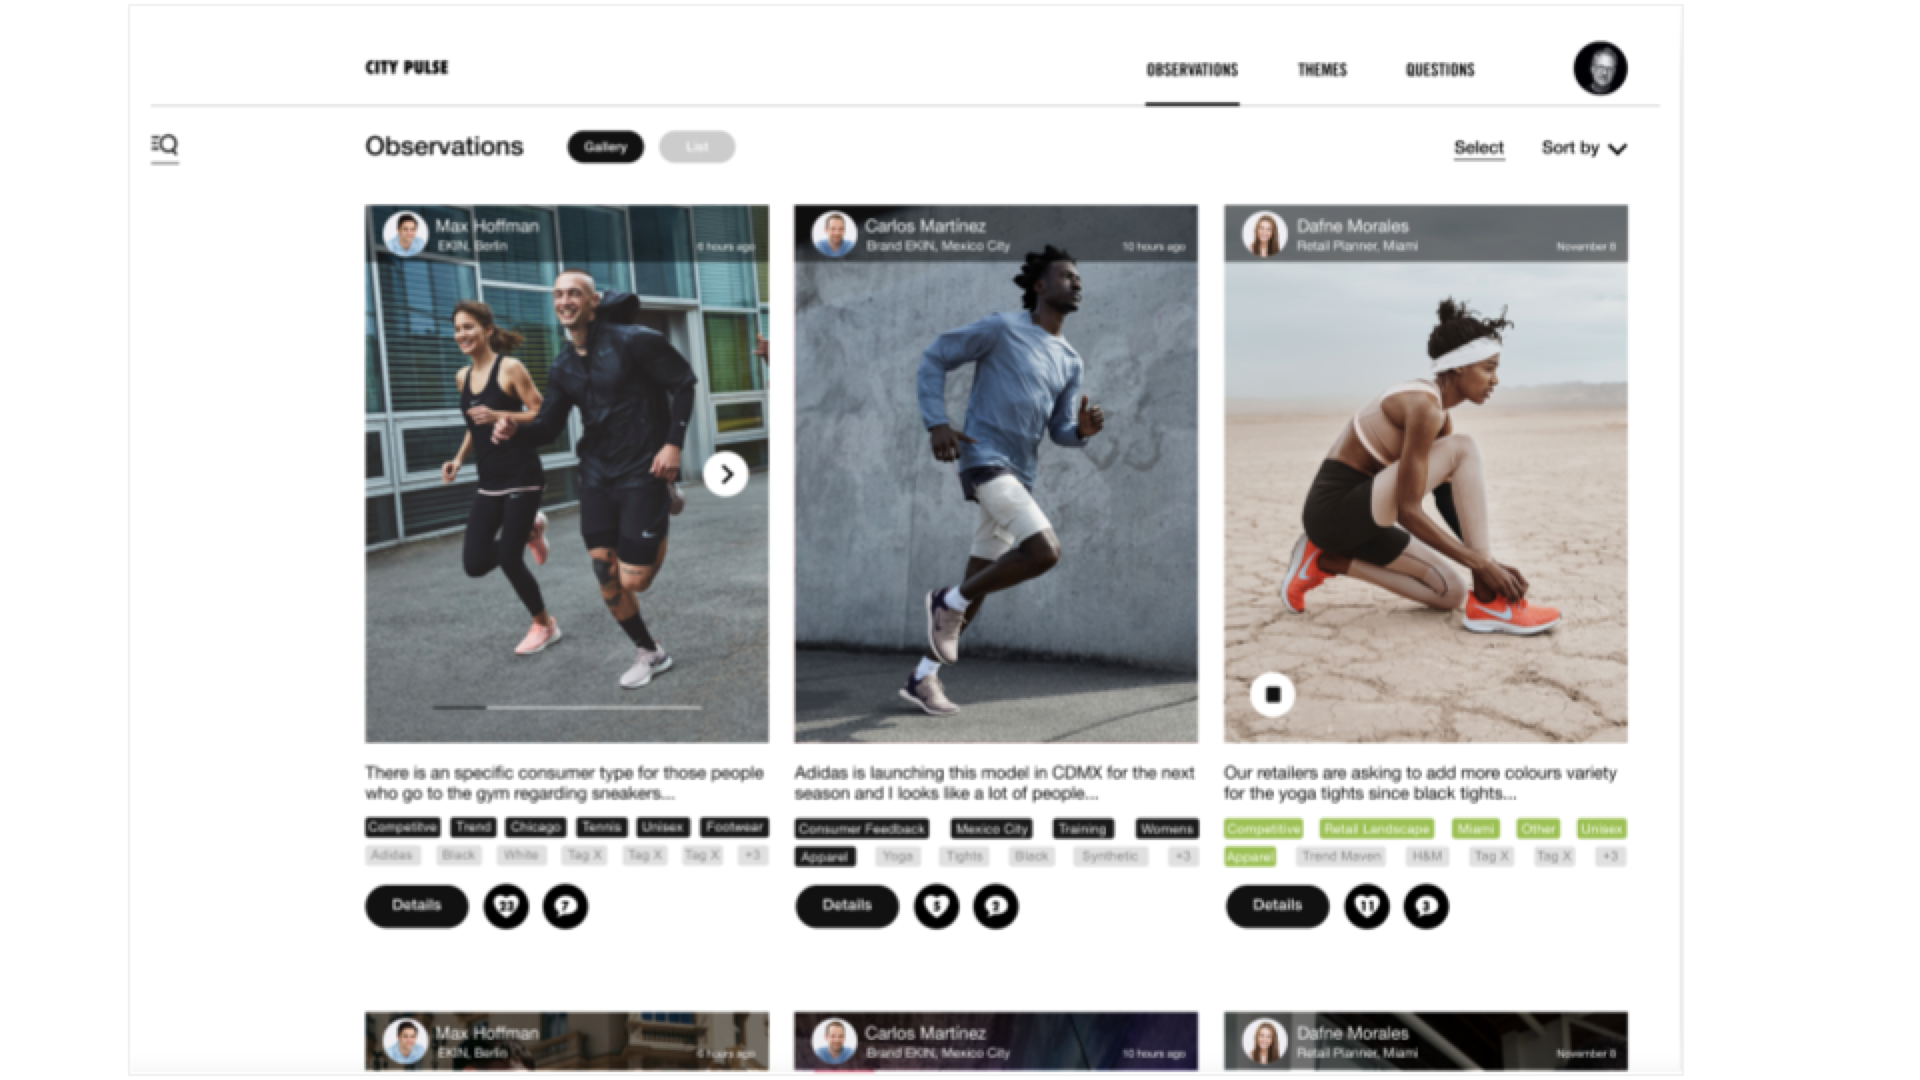
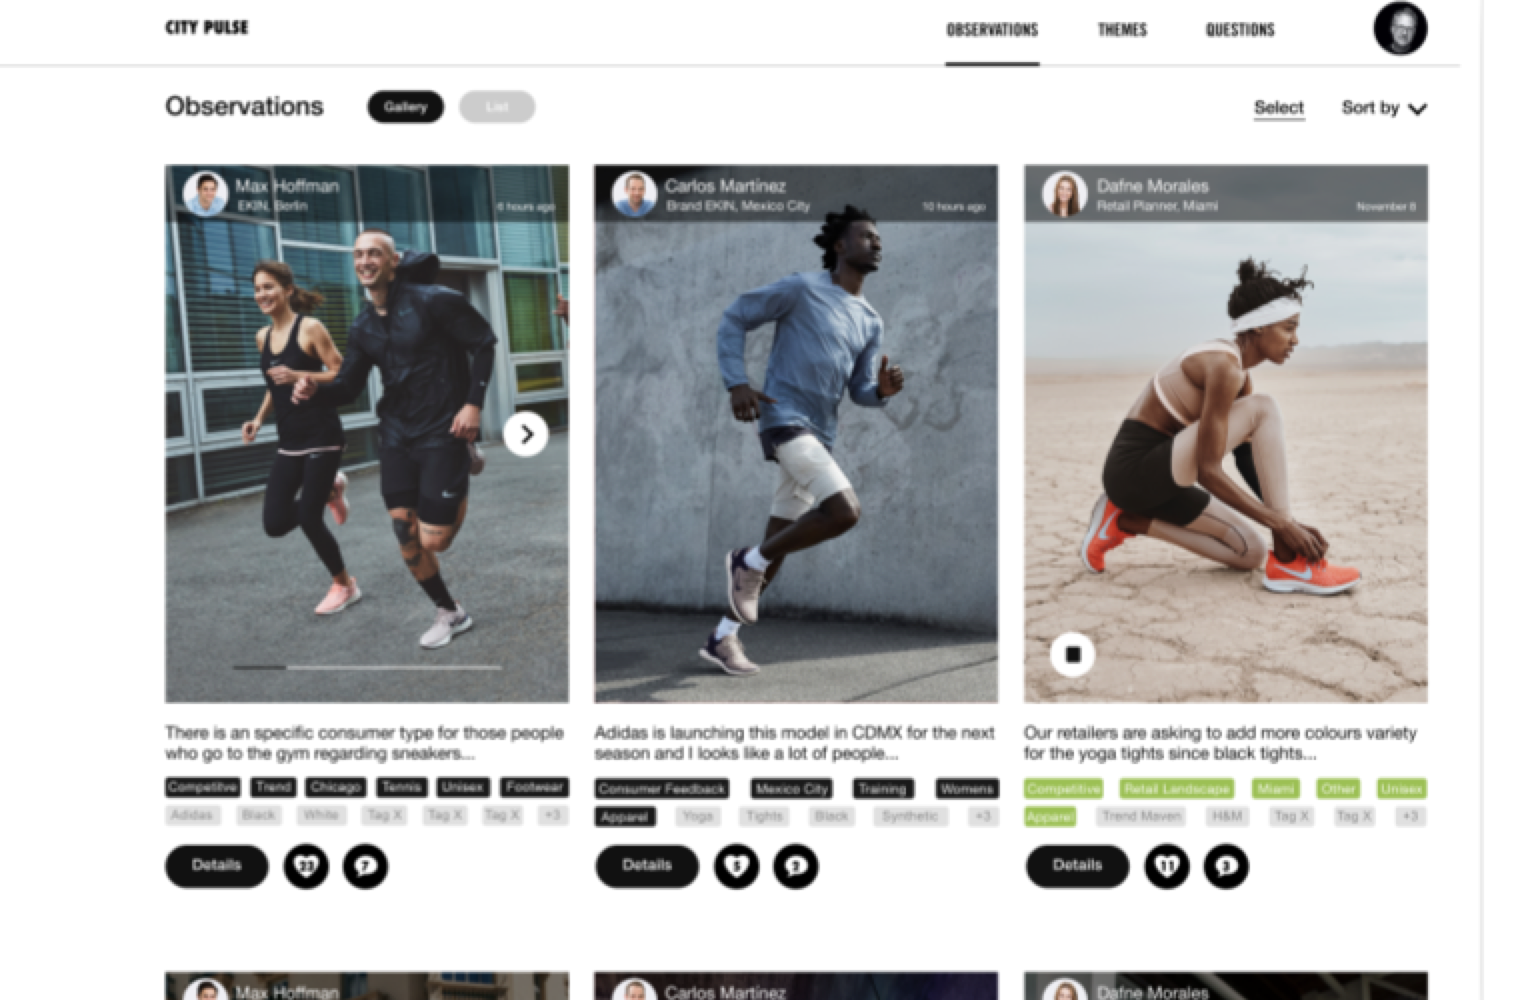
Update City Pulse: text fixes, visual reorder, image crops
- iOS & Web Hi-fi Prototypes rename; Senior UX Designer heading
- 20 months → 15 months throughout; add Olympics 2020 to process heading
- Timeline: Weeks → Phases; Phase 8 back-to-phase-2 note
- Phase 2: add User Research + User Personas highlighted; un-highlight Proto-Personas
- Visuals: blueprint+content model 2-up; persona+systemico 2-up; story map+SLA 2-up
- Wireframes promoted to full-width; usability testing moved before mobile explorations
- WebAppCityPulse cropped (white margins removed); MobileExplorations cropped tighter
- Hero image repeated at end of Results section

diff --git a/citypulse.html b/citypulse.html
@@ -234,7 +234,7 @@
       </div>
       <div class="meta-block">
         <span class="meta-label">Timeline</span>
-        <span class="meta-value-mono">20 months · 2019–2020</span>
+        <span class="meta-value-mono">15 months · 2019–2020</span>
       </div>
       <div class="meta-block">
         <span class="meta-label">Deliverables</span>
@@ -278,8 +278,8 @@
     <div class="section-grid">
       <p class="section-label">02 — My Role</p>
       <div>
-        <h2 class="section-h2">Lead UX Designer — research, design, and validation.</h2>
-        <p class="body-text">Embedded at Wizeline as the Senior UX Designer on the Nike City Pulse engagement, I owned the full design arc across a 20-month project — from foundational discovery through usability-tested, production-ready iOS screens, all the way to launch in 14 cities.</p>
+        <h2 class="section-h2">Senior UX Designer — research, design, and validation.</h2>
+        <p class="body-text">Embedded at Wizeline as the Senior UX Designer on the Nike City Pulse engagement, I owned the full design arc across a 15-month project — from foundational discovery through usability-tested, production-ready iOS screens, all the way to launch in 14 cities.</p>
         <p class="body-text">I ran stakeholder and SME workshops, facilitated a 5-day in-site foundations session, conducted 50+ user interviews across global markets, and drove design iteration from whiteboard sketches to high-fidelity iOS prototypes — pairing closely with a team of 2 iOS developers, 1 back-end and 1 front-end engineer, and a delivery manager. With no dedicated product manager on the project for extended periods, I regularly stepped into that role — defining requirements, prioritizing the backlog, and aligning stakeholders to keep delivery moving.</p>
         <div class="artifact-grid">
           <div class="artifact-card">
@@ -313,7 +313,7 @@
               <line x1="22" y1="14" x2="22" y2="18" stroke="#141413" stroke-width="0.75" opacity="0.2"/>
             </svg>
             <span class="artifact-title">Systemico Model</span>
-            <span class="artifact-desc">Persona goals → Epics → User Stories → MVP prioritization. Used to scope and sequence features across the 20-month delivery.</span>
+            <span class="artifact-desc">Persona goals → Epics → User Stories → MVP prioritization. Used to scope and sequence features across the 15-month delivery.</span>
           </div>
           <div class="artifact-card">
             <svg class="artifact-icon" viewBox="0 0 32 32" fill="none" xmlns="http://www.w3.org/2000/svg">
@@ -322,8 +322,8 @@
               <line x1="12" y1="21" x2="20" y2="21" stroke="#141413" stroke-width="1" opacity="0.2"/>
               <circle cx="16" cy="24" r="1" fill="#141413" opacity="0.3"/>
             </svg>
-            <span class="artifact-title">iOS Hi-fi Prototypes</span>
-            <span class="artifact-desc">From whiteboarding to high-fidelity iOS screens — closed questions, profile/interest, onboarding, themes and feedback loop flows.</span>
+            <span class="artifact-title">iOS &amp; Web Hi-fi Prototypes</span>
+            <span class="artifact-desc">From whiteboarding to high-fidelity iOS and web screens — closed questions, profile/interest, onboarding, themes and feedback loop flows.</span>
           </div>
         </div>
 
@@ -346,12 +346,12 @@
     <div class="section-grid">
       <p class="section-label">03 — Design Process</p>
       <div>
-        <h2 class="section-h2">20 months. Discovery to production in 14 cities.</h2>
-        <p class="body-text">The project ran across 20 months — structured in discovery and execution phases that cycled iteratively as new features were scoped and shipped. Every feature went through the full loop: research → wireframes → lo-fi validation → hi-fi prototype → team validation → developer handoff.</p>
+        <h2 class="section-h2">15 months. Discovery to production in 14 cities, ready to test during Olympics 2020.</h2>
+        <p class="body-text">The project ran across 15 months — structured in discovery and execution phases that cycled iteratively as new features were scoped and shipped. Every feature went through the full loop: research → wireframes → lo-fi validation → hi-fi prototype → team validation → developer handoff.</p>
 
         <div class="timeline">
           <div class="timeline-week">
-            <span class="week-label">Week 1</span>
+            <span class="week-label">Phase 1</span>
             <div class="week-content">
               <span class="week-tag highlight">Project onboarding</span>
               <span class="week-tag">Positioning statement</span>
@@ -359,16 +359,18 @@
             </div>
           </div>
           <div class="timeline-week">
-            <span class="week-label">Week 2</span>
+            <span class="week-label">Phase 2</span>
             <div class="week-content">
-              <span class="week-tag highlight">Proto-personas</span>
+              <span class="week-tag">Proto-personas</span>
+              <span class="week-tag highlight">User research</span>
+              <span class="week-tag highlight">User personas</span>
               <span class="week-tag">Job stories</span>
               <span class="week-tag highlight">User story map</span>
               <span class="week-tag">User flow (mobile)</span>
             </div>
           </div>
           <div class="timeline-week">
-            <span class="week-label">Weeks 3–6</span>
+            <span class="week-label">Phase 3</span>
             <div class="week-content">
               <span class="week-tag highlight">Wireframes / Sketches</span>
               <span class="week-tag">Lo-fi prototypes</span>
@@ -378,7 +380,7 @@
             </div>
           </div>
           <div class="timeline-week">
-            <span class="week-label">Week 7</span>
+            <span class="week-label">Phase 4</span>
             <div class="week-content">
               <span class="week-tag highlight">Usability testing script</span>
               <span class="week-tag">30+ sessions (global)</span>
@@ -386,11 +388,37 @@
             </div>
           </div>
           <div class="timeline-week">
-            <span class="week-label">Week 8</span>
+            <span class="week-label">Phase 5</span>
             <div class="week-content">
               <span class="week-tag highlight">Usability testing report</span>
               <span class="week-tag">Feedback synthesis</span>
-              <span class="week-tag">Next steps & recommendations</span>
+              <span class="week-tag">Next steps &amp; recommendations</span>
+            </div>
+          </div>
+          <div class="timeline-week">
+            <span class="week-label">Phase 6</span>
+            <div class="week-content">
+              <span class="week-tag highlight">Feature scoping</span>
+              <span class="week-tag">Backlog prioritization</span>
+              <span class="week-tag">Stakeholder alignment</span>
+            </div>
+          </div>
+          <div class="timeline-week">
+            <span class="week-label">Phase 7</span>
+            <div class="week-content">
+              <span class="week-tag highlight">Design iteration</span>
+              <span class="week-tag">Engineer pairing</span>
+              <span class="week-tag">Hi-fi web prototypes</span>
+              <span class="week-tag">Dev handoff</span>
+            </div>
+          </div>
+          <div class="timeline-week">
+            <span class="week-label">Phase 8</span>
+            <div class="week-content">
+              <span class="week-tag highlight">Launch — 14 cities</span>
+              <span class="week-tag">Field validation</span>
+              <span class="week-tag">Olympics 2020 readiness</span>
+              <span class="week-tag" style="opacity:0.5;">↩ Back to phase 2</span>
             </div>
           </div>
         </div>
@@ -433,17 +461,11 @@
           </div>
         </div>
 
-        <!-- Foundations: service blueprint -->
-        <div class="screen-full">
-          <img src="./img/citypulse/ServiceBluePrint.png" alt="Service blueprint mapping the field-employee-to-HQ insight journey"/>
-          <p class="screen-caption">Foundations · Service blueprint · Field employee → HQ insight journey</p>
-        </div>
-
-        <!-- Research: persona + OOUX content model -->
+        <!-- Service blueprint + Content model (2-up, blueprint smaller alongside) -->
         <div class="screen-grid">
           <div class="screen-fig">
-            <img src="./img/citypulse/CityPulse_Persona.png" alt="City Pulse user persona synthesized from global field-employee interviews"/>
-            <p class="screen-caption">Research · User persona · Synthesized from interviews</p>
+            <img src="./img/citypulse/ServiceBluePrint.png" alt="Service blueprint mapping the field-employee-to-HQ insight journey"/>
+            <p class="screen-caption">Foundations · Service blueprint · Field employee → HQ insight journey</p>
           </div>
           <div class="screen-fig">
             <img src="./img/citypulse/ContentModel.png" alt="OOUX content model defining objects, attributes and relationships"/>
@@ -451,46 +473,50 @@
           </div>
         </div>
 
-        <!-- Systemico model + user story map -->
+        <!-- Persona + Systemico model -->
         <div class="screen-grid">
+          <div class="screen-fig">
+            <img src="./img/citypulse/CityPulse_Persona.png" alt="City Pulse user persona synthesized from global field-employee interviews"/>
+            <p class="screen-caption">Research · User persona · Synthesized from interviews</p>
+          </div>
           <div class="screen-fig">
             <img src="./img/citypulse/SystemicoModelStoryMapping.png" alt="Systemico model translating persona goals into epics and user stories"/>
             <p class="screen-caption">Systemico model · Persona goals → epics → user stories</p>
           </div>
+        </div>
+
+        <!-- User story map + SLA definitions -->
+        <div class="screen-grid">
           <div class="screen-fig">
             <img src="./img/citypulse/UserStoryMapDetial.png" alt="Detailed user story map sequencing the MVP scope"/>
             <p class="screen-caption">Prioritization · User story map · MVP sequencing</p>
           </div>
+          <div class="screen-fig">
+            <img src="./img/citypulse/SLADefinitions.png" alt="SLA definitions framing feedback-loop response expectations"/>
+            <p class="screen-caption">Definition · SLA &amp; feedback-loop expectations</p>
+          </div>
         </div>
 
-        <!-- SLA definitions -->
+        <!-- Wireframes — full width -->
         <div class="screen-full">
-          <img src="./img/citypulse/SLADefinitions.png" alt="SLA definitions framing feedback-loop response expectations"/>
-          <p class="screen-caption">Definition · SLA &amp; feedback-loop expectations</p>
+          <img src="./img/citypulse/Wireframe_reveiw2.png" alt="Wireframe review — early lo-fi iOS exploration"/>
+          <p class="screen-caption">Lo-fi · Wireframe review · iOS exploration</p>
+        </div>
+        <div class="screen-full">
+          <img src="./img/citypulse/Wireframe_reveiw3.png" alt="Wireframe review — refined lo-fi iOS flows"/>
+          <p class="screen-caption">Lo-fi · Wireframe review · Refined flows</p>
         </div>
 
-        <!-- Wireframes -->
-        <div class="screen-grid">
-          <div class="screen-fig">
-            <img src="./img/citypulse/Wireframe_reveiw2.png" alt="Wireframe review — early lo-fi iOS exploration"/>
-            <p class="screen-caption">Lo-fi · Wireframe review · iOS exploration</p>
-          </div>
-          <div class="screen-fig">
-            <img src="./img/citypulse/Wireframe_reveiw3.png" alt="Wireframe review — refined lo-fi iOS flows"/>
-            <p class="screen-caption">Lo-fi · Wireframe review · Refined flows</p>
-          </div>
+        <!-- Usability testing plan — BEFORE mobile explorations -->
+        <div class="screen-full">
+          <img src="./img/citypulse/TestingPlan.png" alt="Usability testing plan with 7 task flows across global sessions"/>
+          <p class="screen-caption">Validation · Usability testing plan · 7 task flows · 30+ global sessions</p>
         </div>
 
         <!-- Mobile hi-fi explorations -->
         <div class="screen-full">
-          <img src="./img/citypulse/MobileExplorations.png" alt="High-fidelity iOS screen explorations for City Pulse"/>
-          <p class="screen-caption">Hi-fi · iOS screen explorations · Onboarding · Themes · Feedback loop</p>
-        </div>
-
-        <!-- Usability testing plan -->
-        <div class="screen-full">
-          <img src="./img/citypulse/TestingPlan.png" alt="Usability testing plan with 7 task flows across global sessions"/>
-          <p class="screen-caption">Validation · Usability testing plan · 7 task flows · 30+ global sessions</p>
+          <img src="./img/citypulse/MobileExplorations.png" alt="High-fidelity iOS &amp; web screen explorations for City Pulse"/>
+          <p class="screen-caption">Hi-fi · iOS &amp; web screen explorations · Onboarding · Themes · Feedback loop</p>
         </div>
       </div>
     </div>
@@ -514,7 +540,7 @@
             <div class="impact-desc">User interviews conducted<br>across global markets</div>
           </div>
           <div class="impact-cell">
-            <div class="impact-number">20<span>mo</span></div>
+            <div class="impact-number">15<span>mo</span></div>
             <div class="impact-desc">Full project duration —<br>discovery to 14-city launch</div>
           </div>
         </div>
@@ -522,6 +548,11 @@
         <div class="screen-full">
           <img src="./img/citypulse/WebAppCityPulse.png" alt="City Pulse web app in production — HQ surfacing field insights across 14 cities"/>
           <p class="screen-caption">Production · City Pulse web app · HQ insight dashboard · 14 cities</p>
+        </div>
+
+        <div class="screen-full">
+          <img src="./img/citypulse/HeroWebImage.png" alt="City Pulse — web companion dashboard surfacing field-employee insights to Nike HQ"/>
+          <p class="screen-caption">City Pulse · Web companion · HQ insight dashboard</p>
         </div>
       </div>
     </div>
